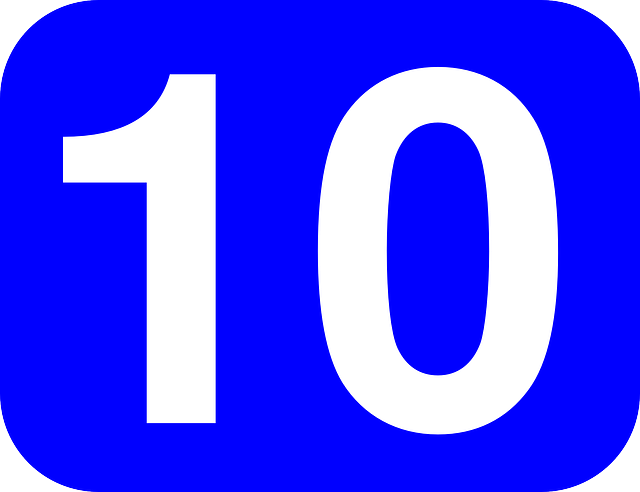
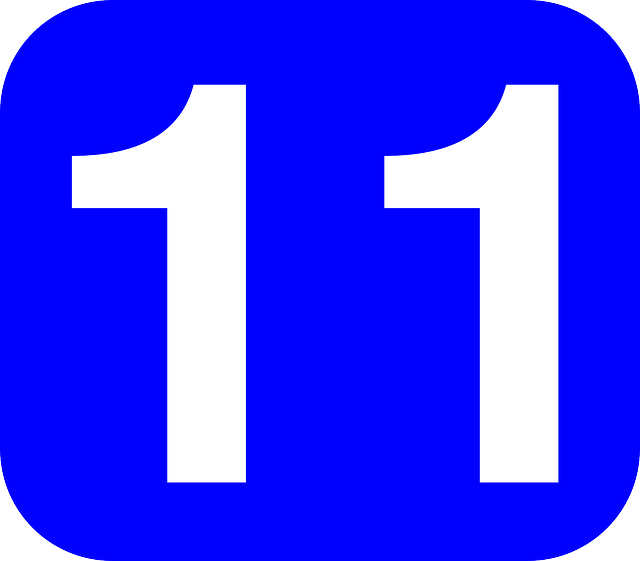
Rafael

diff --git a/content/post/cahm24-season-so-far/index.md b/content/post/cahm24-season-so-far/index.md
@@ -1,12 +1,12 @@
 ---
 title: 'Hurricane Season 2024 Update'
-subtitle: '10 hurricanes so far'
-summary: "10 hurricanes so far"
+subtitle: '11 hurricanes so far'
+summary: "11 hurricanes so far"
 authors: ["Kim Kaivanto"]
 tags: ["CAHM24", "Kim Kaivanto"]
 categories: []
-date: 2024-10-19T00:01:00+00:00
-lastmod: 2024-10-19T00:01:00+00:00
+date: 2024-11-06T00:01:00+00:00
+lastmod: 2024-11-06T00:01:00+00:00
 featured: false
 draft: false
 
@@ -50,20 +50,22 @@ projects: []
 | *Named Storm*  &nbsp;  &nbsp; &nbsp;| [*Classification*](https://www.crucialab.net/post/hurricane-intensity-scale/)| 
 | ---           |--- |
 |  1. Alberto   | Tropical Storm |             
-|  2. Beryl     | Cat 5 Hurricane|             
+|  2. Beryl     | Cat 5 Major Hurricane|             
 |  3. Chris     | Tropical Storm |             
 |  4. Debby     | Cat 1 Hurricane|             
 |  5. Ernesto   | Cat 2 Hurricane|             
 |  6. Francine  | Cat 2 Hurricane|           
 |  7. Gordon    | Tropical Storm|             
-|  8. Helene    | Cat 4 Hurricane|             
+|  8. Helene    | Cat 4 Major Hurricane|             
 |  9. Isaac     | Cat 2 Hurricane|             
 |  10. Joyce    | Tropical Storm|                          
-| 11. Kirk      | Cat 4 Hurricane|
+| 11. Kirk      | Cat 4 Major Hurricane|
 | 12. Leslie    | Cat 1 Hurricane|
-| 13. Milton    | Cat 5 Hurricane|
+| 13. Milton    | Cat 5 Major Hurricane|
 | 14. Nadine    | Tropical Storm |
 | 15. Oscar     | Cat 1 Hurricane|
+| 16. Patty     | Tropical Storm|
+| 17. Raphael   | Cat 3 Major Hurricane|
 
          
 </center>                             
